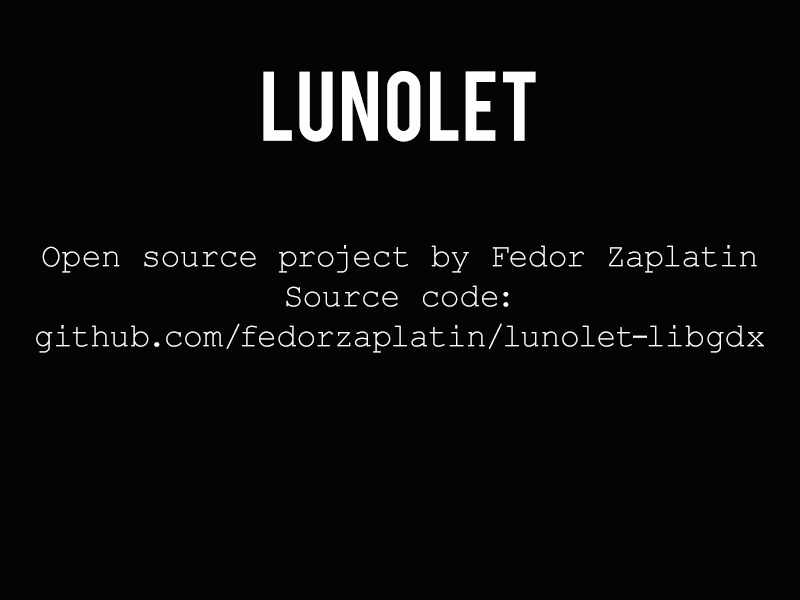
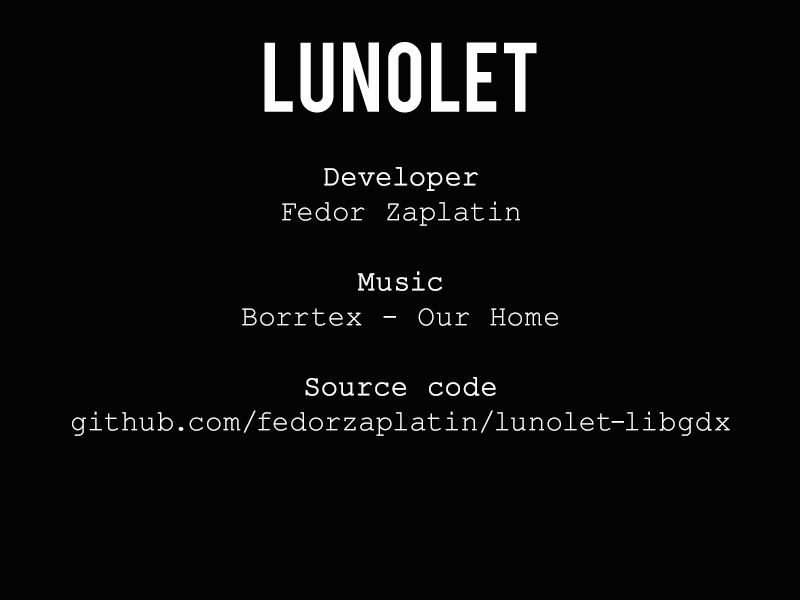
Credits screen changed (added information about music)

diff --git a/core/src/com/fedorzaplatin/lunolet/screens/GameScreen.java b/core/src/com/fedorzaplatin/lunolet/screens/GameScreen.java
@@ -24,7 +24,7 @@ import static com.fedorzaplatin.lunolet.Constants.PPM;
 
 public class GameScreen extends BaseScreen{
 
-    private boolean DEBUG = true;
+    private boolean DEBUG = false;
 
     static private int HEIGHT = Gdx.graphics.getHeight();
     static private int WIDTH = Gdx.graphics.getWidth();
